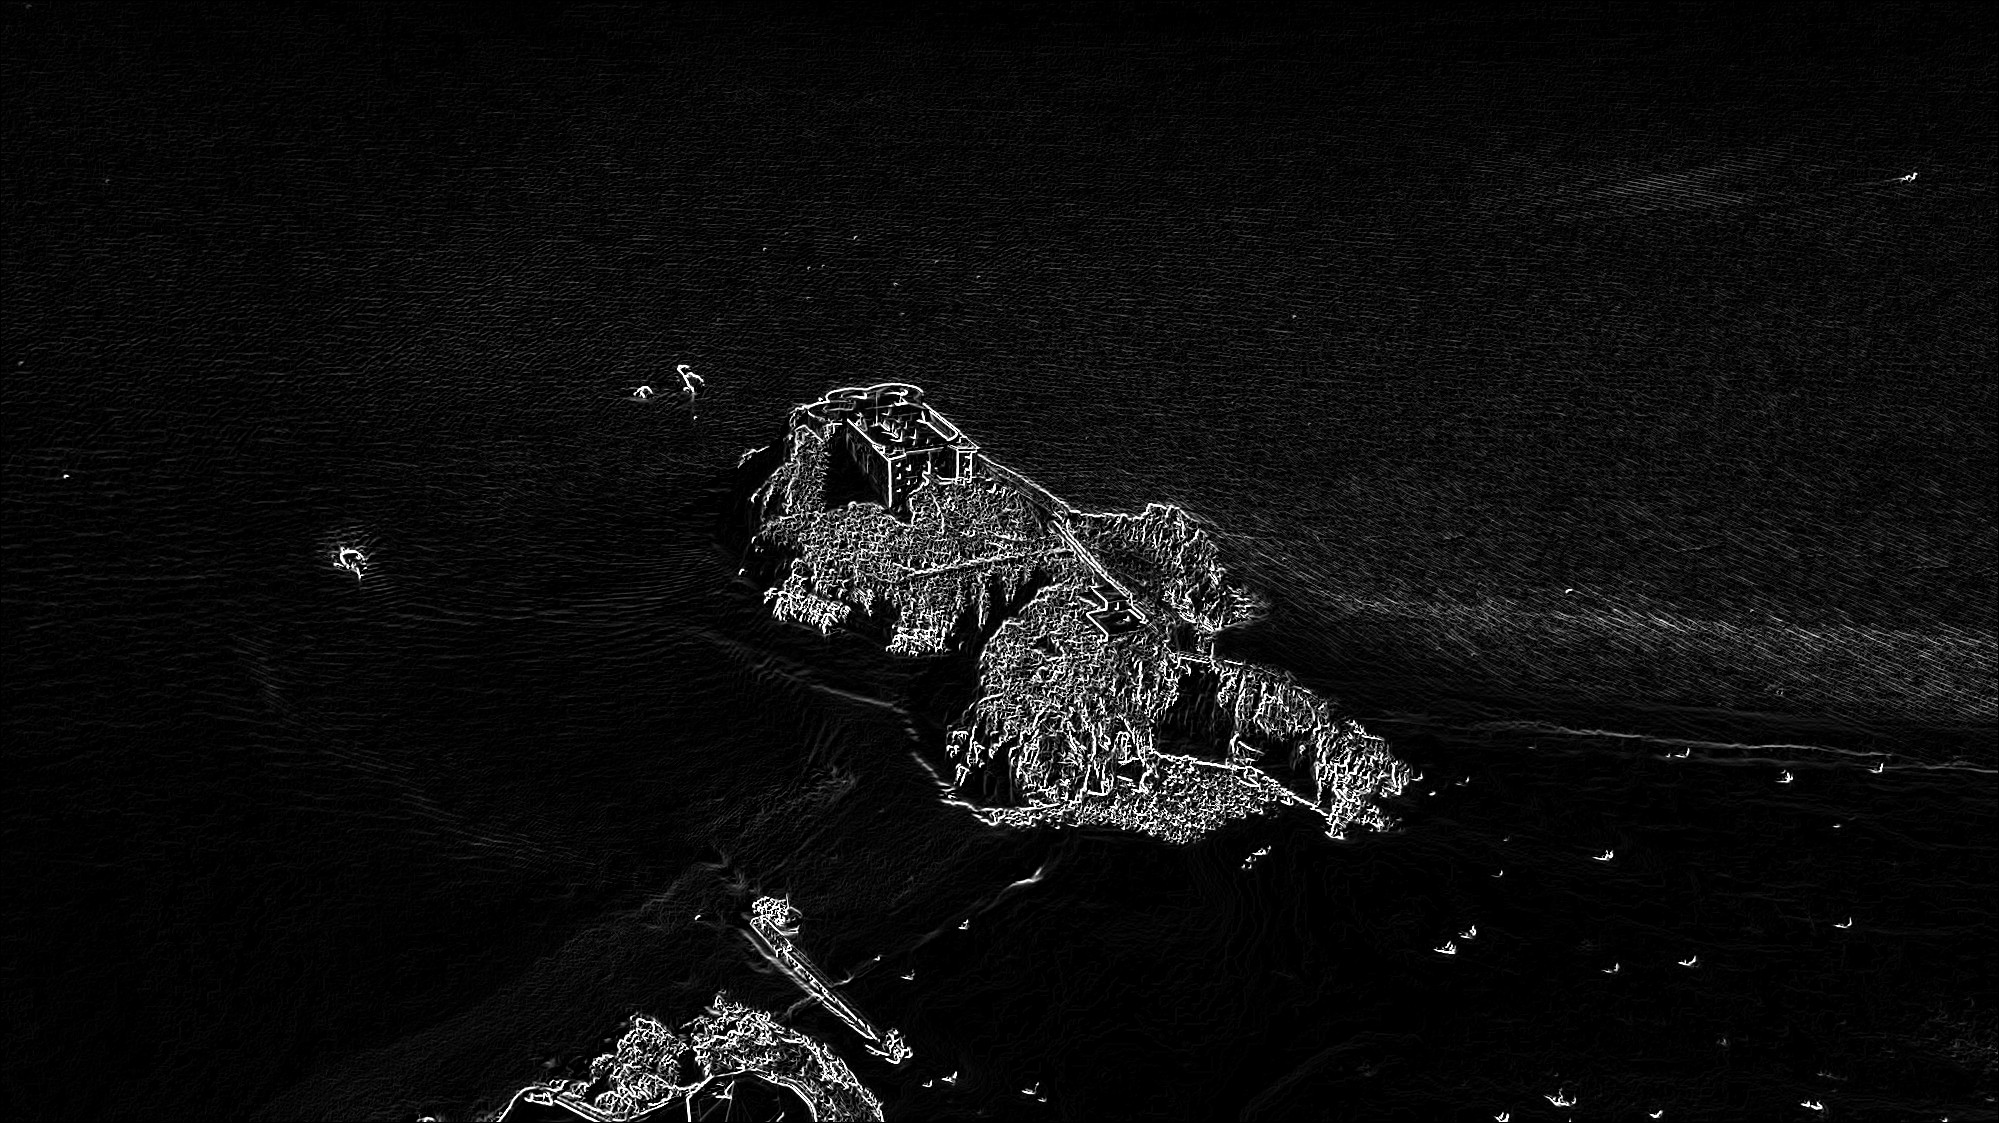
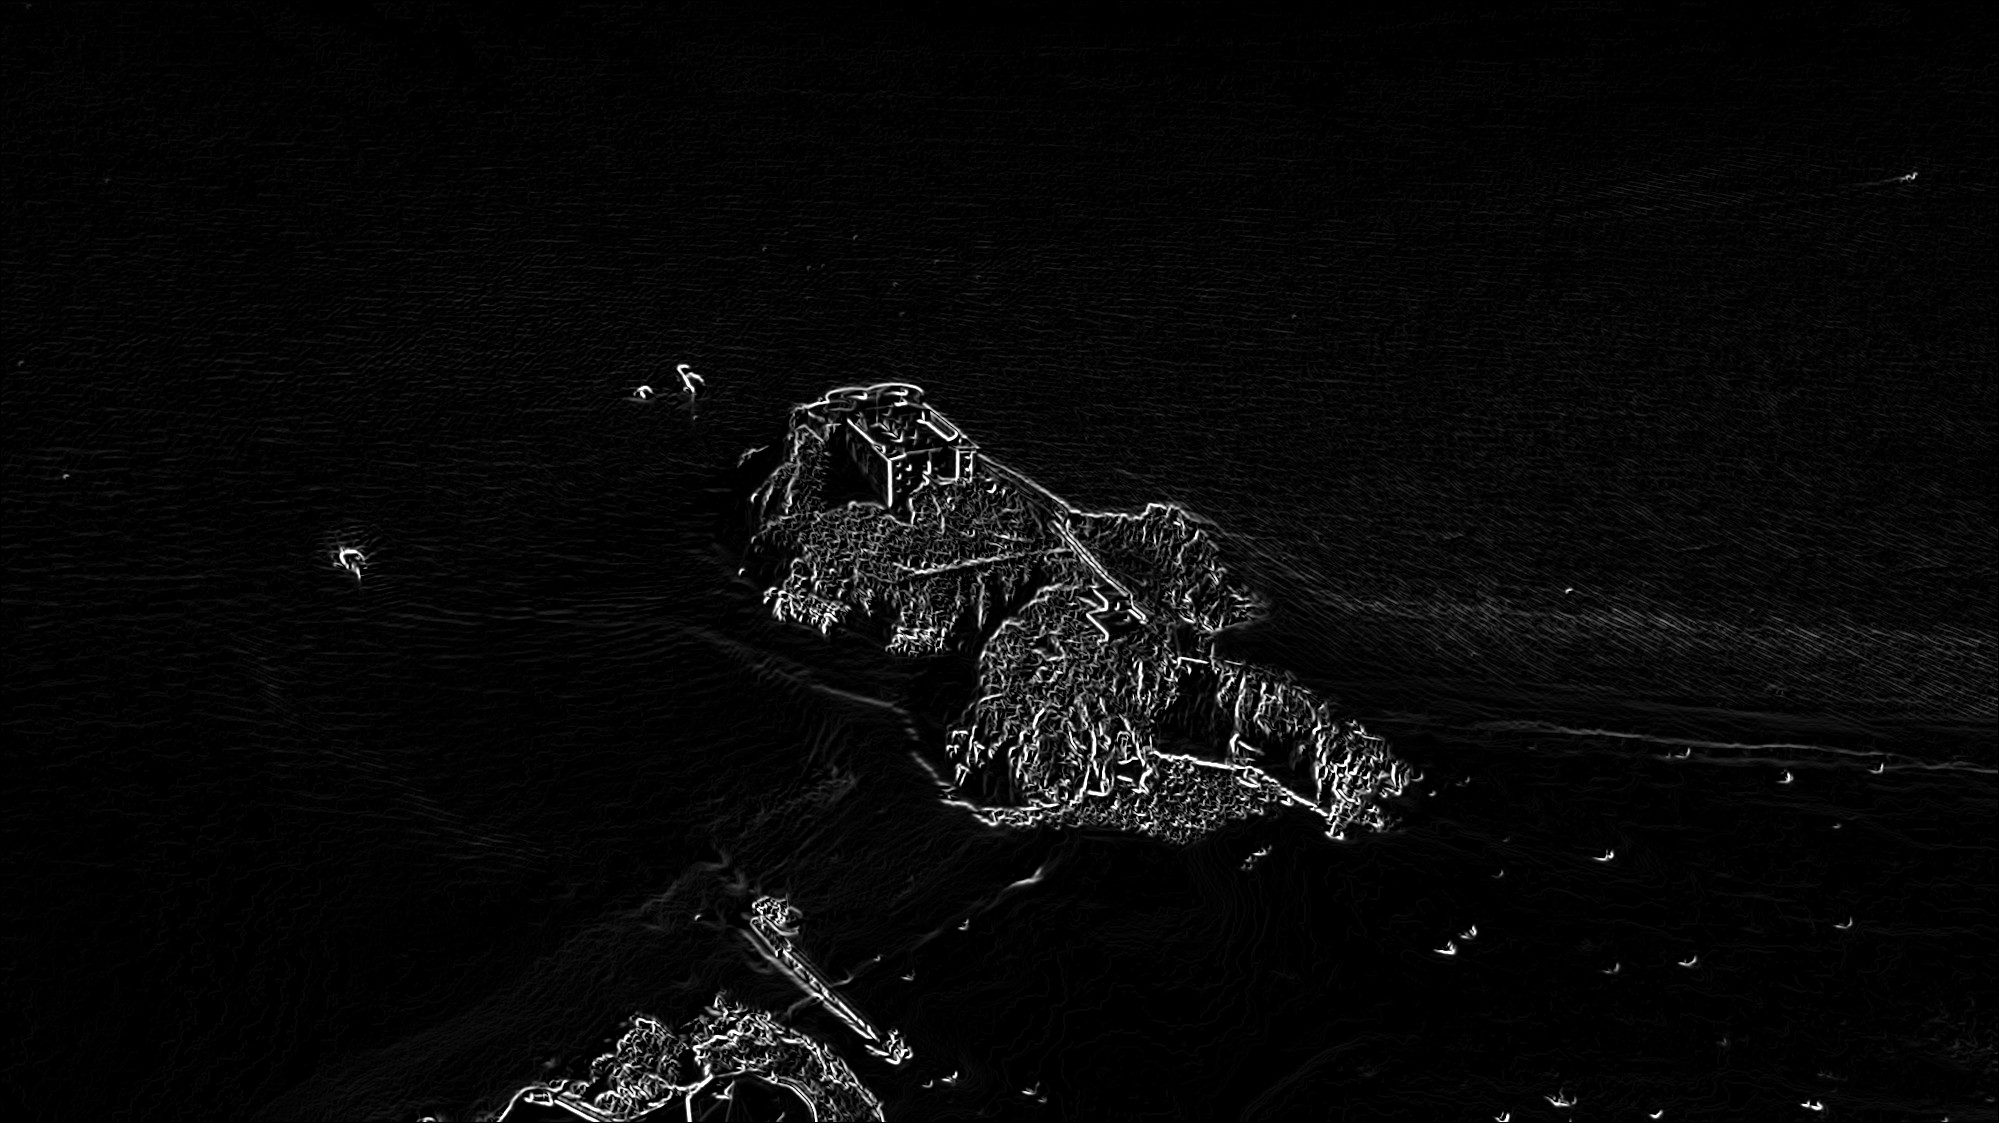
general run changes

diff --git a/src/main.cpp b/src/main.cpp
@@ -8,19 +8,20 @@ void stripImage(const std::string& inputImagePath, const std::string& outputImag
 {
     // Load the input image
     Image inputImage(inputImagePath);
+    Image transposeImage(inputImage);
+    
+    Filter::gaussianBlur(transposeImage.getRawImageData());
 
     // Generate a grayscale version of the image
-    ImageData grayscaleImage = inputImage.getRawImageData();
-    Filter::genGrayscaleData(grayscaleImage);
+    // ImageData grayscaleImage = inputImage.getRawImageData();
+    Filter::genGrayscaleData(transposeImage.getRawImageData());
 
     // Generate an energy map of the grayscale image
-    ImageData energyMap = Filter::generateEnergyMap(grayscaleImage);
-    Image energyMapImage = Image();
-    energyMapImage.setRawImageData(energyMap);
-    energyMapImage.writeToFile("energyMap.jpg");
+    transposeImage.setRawImageData(Filter::generateEnergyMap(transposeImage.getRawImageData()));
+    transposeImage.writeToFile("energyMap.jpg");
 
     // Remove the specified number of seams from the input image
-    Filter::removeSeams(inputImage.getRawImageData(), energyMap, numSeams);
+    Filter::removeSeams(inputImage.getRawImageData(), transposeImage.getRawImageData(), numSeams);
 
     // Save the modified image to the output path
     inputImage.writeToFile(outputImagePath);
